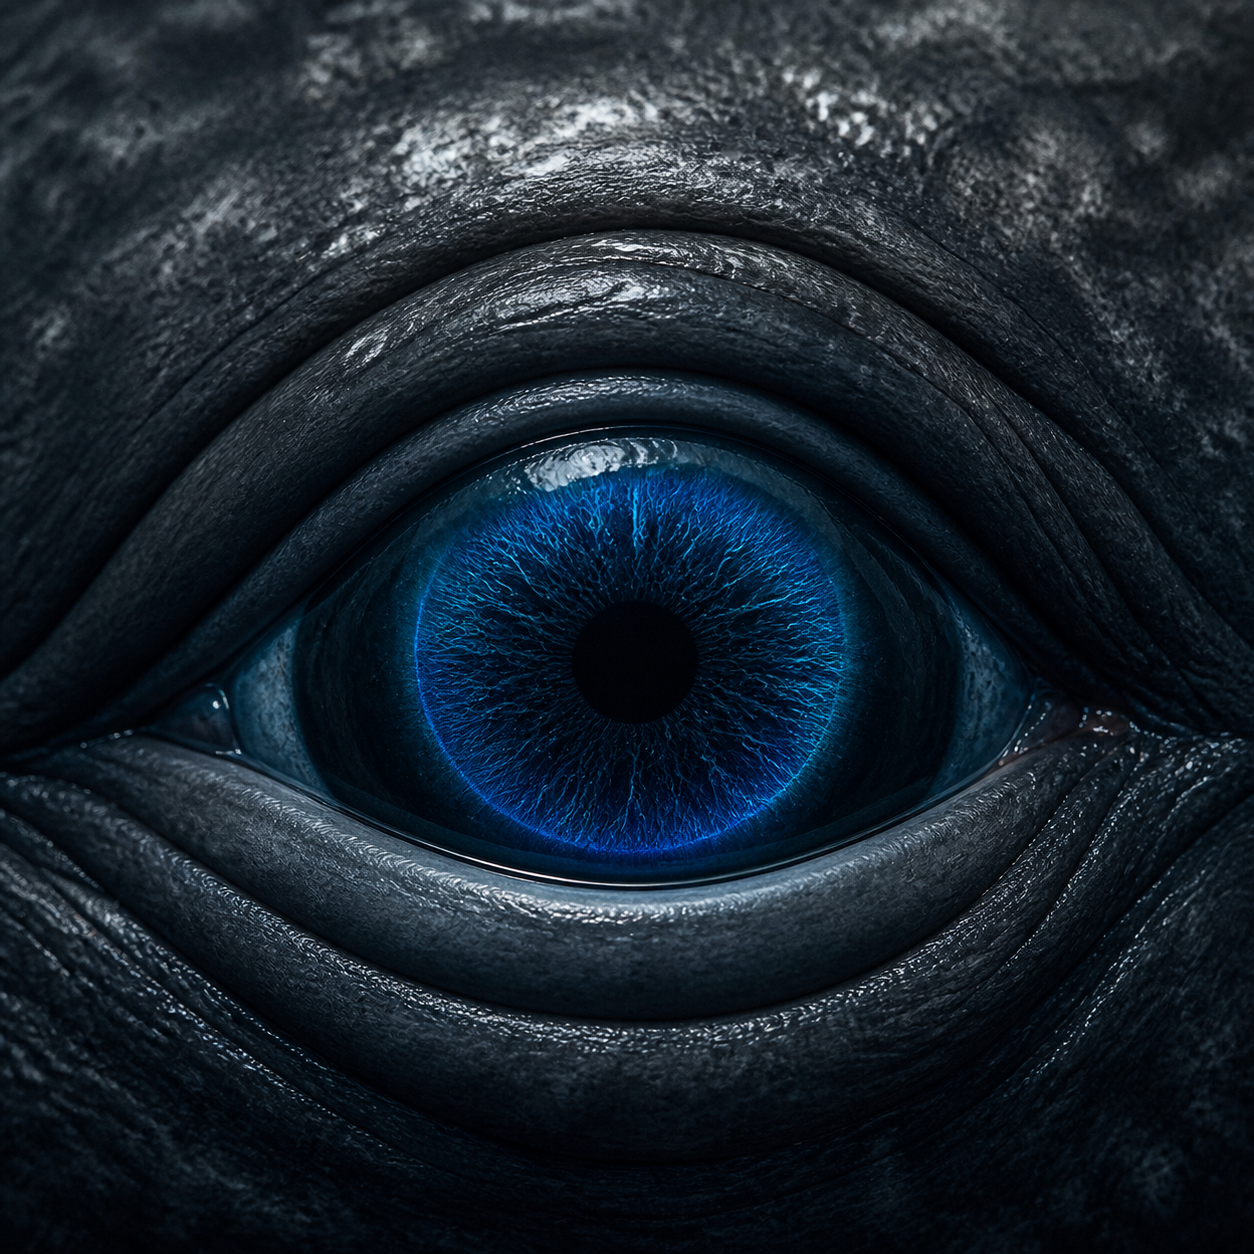
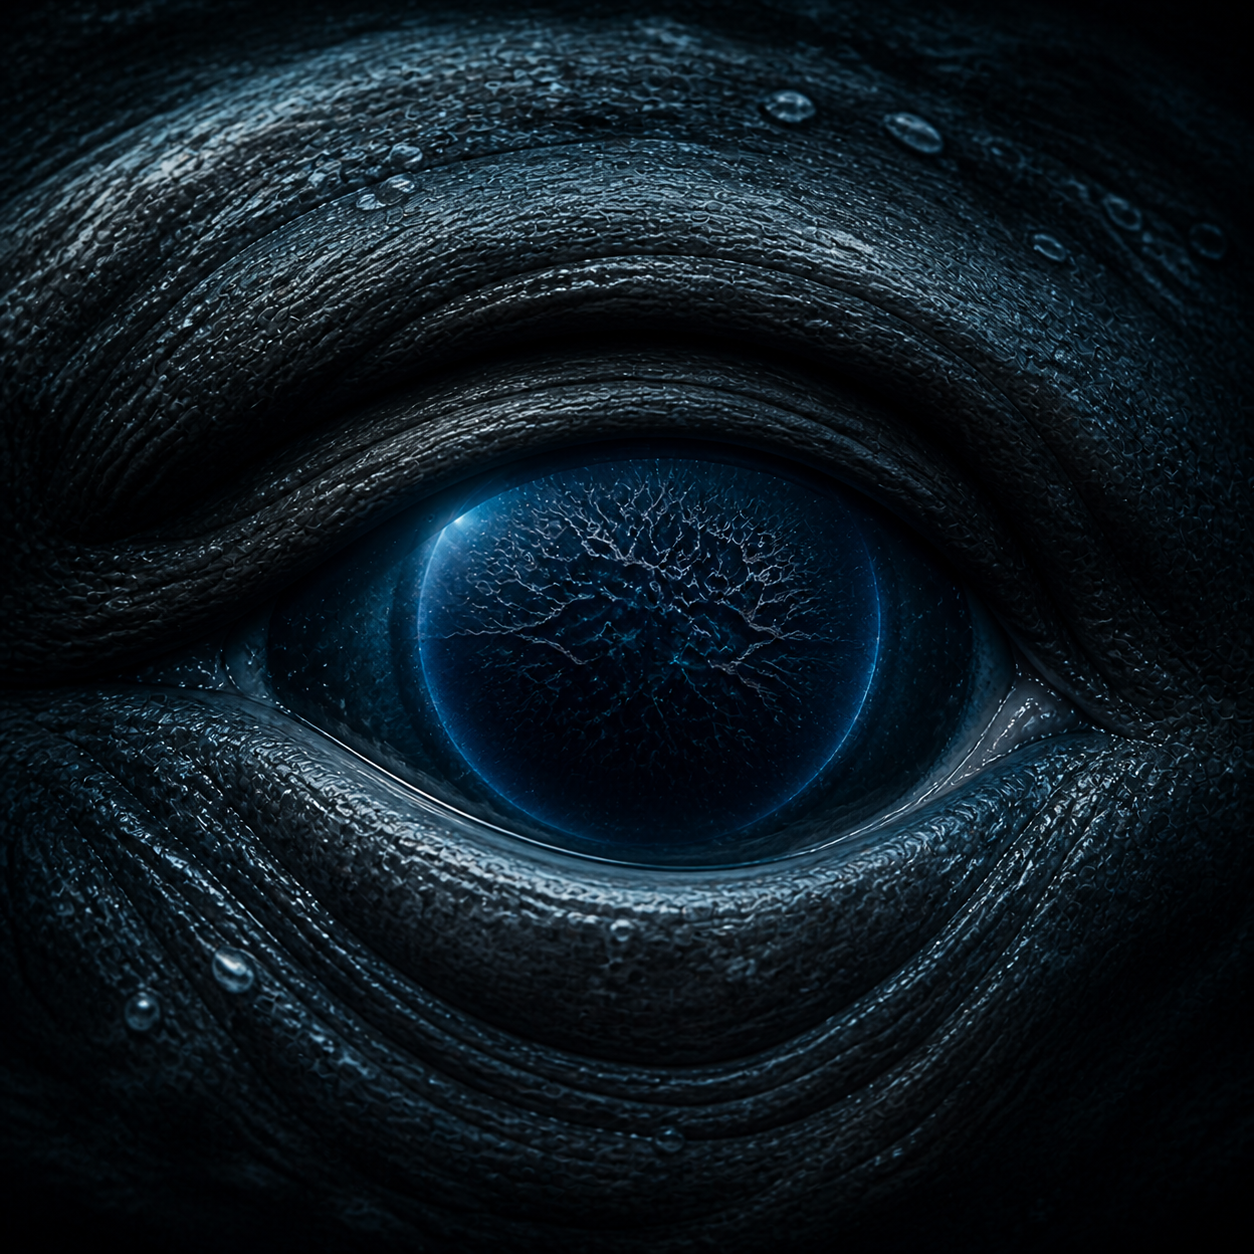
feat(voice): deepen whale living eye identity

diff --git a/app/globals.css b/app/globals.css
@@ -312,11 +312,21 @@
   aspect-ratio: 1;
   isolation: isolate;
   overflow: hidden;
-  border-radius: 16% 17% 21% 20% / 18% 18% 23% 22%;
-  background: #02070c;
-  box-shadow:
-    0 42px 120px rgb(0 55 92 / 24%),
-    inset 0 0 0 1px rgb(162 230 255 / 8%);
+  border-radius: 0;
+  background: transparent;
+  box-shadow: 0 42px 120px rgb(0 55 92 / 18%);
+  -webkit-mask-image: radial-gradient(
+    ellipse 64% 66% at 50% 52%,
+    #000 0 52%,
+    rgb(0 0 0 / 90%) 63%,
+    transparent 86%
+  );
+  mask-image: radial-gradient(
+    ellipse 64% 66% at 50% 52%,
+    #000 0 52%,
+    rgb(0 0 0 / 90%) 63%,
+    transparent 86%
+  );
   animation: living-eye-breathe 8.6s cubic-bezier(0.42, 0, 0.35, 1) infinite
     alternate;
   contain: layout paint style;
@@ -328,14 +338,13 @@
   z-index: 8;
   pointer-events: none;
   background:
-    radial-gradient(circle at 36% 30%, rgb(226 250 255 / 13%), transparent 13%),
+    radial-gradient(circle at 36% 32%, rgb(226 250 255 / 9%), transparent 12%),
     radial-gradient(
-      ellipse at 50% 53%,
-      transparent 43%,
-      rgb(0 4 8 / 18%) 58%,
-      rgb(0 3 7 / 62%) 100%
+      ellipse at 50% 52%,
+      transparent 46%,
+      rgb(0 4 8 / 12%) 65%,
+      rgb(0 3 7 / 48%) 100%
     );
-  mix-blend-mode: screen;
 }
 .nexo-living-eye-base {
   position: absolute;
@@ -344,7 +353,7 @@
   height: 102%;
   user-select: none;
   object-fit: cover;
-  filter: saturate(0.88) contrast(1.06) brightness(0.78);
+  filter: saturate(0.96) contrast(1.04) brightness(0.88);
   transition: filter 420ms ease;
 }
 .nexo-living-eye-closed {
@@ -356,7 +365,7 @@
   user-select: none;
   object-fit: cover;
   opacity: 0;
-  filter: saturate(0.72) contrast(1.04) brightness(0.7);
+  filter: saturate(0.9) contrast(1.03) brightness(0.84);
   pointer-events: none;
   will-change: opacity;
 }
@@ -391,20 +400,37 @@
   z-index: 3;
   width: 100%;
   height: 100%;
+  opacity: 0.06;
+  mix-blend-mode: screen;
+  -webkit-mask-image: radial-gradient(
+    ellipse 28% 29% at 50.5% 51.8%,
+    #000 0 66%,
+    transparent 100%
+  );
+  mask-image: radial-gradient(
+    ellipse 28% 29% at 50.5% 51.8%,
+    #000 0 66%,
+    transparent 100%
+  );
   pointer-events: none;
 }
 .nexo-living-eye-pupil {
   position: absolute;
   z-index: 4;
-  left: 44.4%;
-  top: 45.2%;
-  width: 12.4%;
+  left: 42.8%;
+  top: 44.2%;
+  width: 15.5%;
   aspect-ratio: 1;
-  border-radius: 50%;
-  background: radial-gradient(circle at 43% 38%, #06101a 0 38%, #000 72%);
-  box-shadow:
-    inset 0 0 1.2rem #000,
-    0 0 1.4rem rgb(0 0 0 / 60%);
+  border-radius: 46% 54% 51% 49% / 53% 47% 56% 44%;
+  background: radial-gradient(
+    ellipse at 48% 52%,
+    rgb(0 2 6 / 62%) 0 32%,
+    rgb(0 4 10 / 30%) 58%,
+    transparent 78%
+  );
+  filter: blur(2.4px);
+  opacity: 0.05;
+  mix-blend-mode: multiply;
   transform: translate(var(--eye-gaze-x), var(--eye-gaze-y))
     scale(calc(1 - var(--eye-energy) * 0.12));
   transition: transform 360ms cubic-bezier(0.2, 0.8, 0.2, 1);
@@ -412,13 +438,13 @@
 .nexo-living-eye-glint {
   position: absolute;
   z-index: 5;
-  left: 36%;
-  top: 37%;
-  width: 9%;
-  height: 4%;
+  left: 35.5%;
+  top: 36.5%;
+  width: 8%;
+  height: 3.5%;
   border-radius: 50%;
-  background: radial-gradient(ellipse, rgb(229 252 255 / 34%), transparent 72%);
-  filter: blur(0.8px);
+  background: radial-gradient(ellipse, rgb(229 252 255 / 26%), transparent 72%);
+  filter: blur(1.2px);
   transform: translate(
       calc(var(--eye-gaze-x) * 1.35),
       calc(var(--eye-gaze-y) * 1.35)
@@ -485,11 +511,11 @@
 }
 .nexo-living-eye-listening .nexo-living-eye-base,
 .nexo-living-eye-speaking .nexo-living-eye-base {
-  filter: saturate(1.12) contrast(1.08) brightness(0.91);
+  filter: saturate(1.1) contrast(1.08) brightness(1.06);
 }
 .nexo-living-eye-thinking .nexo-living-eye-base,
 .nexo-living-eye-working .nexo-living-eye-base {
-  filter: saturate(1.04) contrast(1.12) brightness(0.84) hue-rotate(-4deg);
+  filter: saturate(1.02) contrast(1.08) brightness(0.92) hue-rotate(-3deg);
 }
 .nexo-living-eye-success .nexo-living-eye-depth {
   animation: living-eye-success 1.1s ease-out;
@@ -513,7 +539,7 @@
 }
 .nexo-living-eye-mini {
   width: 1.85rem;
-  border-radius: 48%;
+  border-radius: 45% 55% 48% 52% / 52% 46% 54% 48%;
   animation-duration: 10.5s;
   box-shadow: 0 0 1rem rgb(0 153 210 / 22%);
 }

diff --git a/docs/voice-presence/WHALE-EYE-V2-PROMPTS.md b/docs/voice-presence/WHALE-EYE-V2-PROMPTS.md
@@ -1,0 +1,34 @@
+# Whale Eye V2 — geração dos assets
+
+Modo de geração: ImageGen integrado, edição por referências raster. Os originais gerados foram mantidos no diretório de imagens do Codex e copiados para `public/nexo/`.
+
+## Asset aberto
+
+Referências: as três imagens fornecidas pelo usuário e a primeira iteração do olho orgânico para alinhamento do componente.
+
+```text
+Use case: style-transfer and precise asset redesign.
+Asset type: final open-state, full-bleed square raster layer for the Nexo Living Eye voice interface.
+Reference priority: Images 1, 2 and 3 define the exact living visual language to preserve: a massive whale-like eye, heavy asymmetric cetacean eyelids, wet dark skin, a deep almost-black blue globe, a restrained luminous cyan inner rim, and especially the delicate organic branching structures floating visibly inside the eye. Image 4 provides prior UI alignment and surrounding skin scale only.
+Primary request: create a more alive version that unmistakably follows the references. The eye must feel conscious and internally active: glassy depth, subtle underwater caustic reflections, tiny wet specular highlights, faint suspended particles, minute irregular color variation and a clear organic branching network inside the dark central globe. The branches resemble submerged nerves or bioluminescent roots—fine, asymmetric, naturally fading, concentrated in the upper-middle interior, never a decorative radial iris.
+Subject: one animal eye recessed into a huge dark whale-like face. Heavy unequal upper and lower folds compress the globe. The visible globe remains dark navy/near-black, with blue light coming from depth rather than a painted bright iris. The center is bottomless, subtly irregular and animal; no clean human pupil.
+Composition: 1:1 square, full bleed, no card. Eye centered near 50% horizontal and 51% vertical for UI overlays. Eye opening roughly 40–48% of frame width, large enough to reveal the internal living structures while the organic whale skin still dominates. Preserve the reference's cinematic close-up presence.
+Materials: scarred cetacean skin, dense pores and grooves, wet membranes, slight mucus-like gloss at the lid edge, glassy ocular surface.
+Lighting: dark abyssal environment, directional blue-black grazing light on the skin, cyan restricted to inner ocular depth and wet reflections.
+Constraints: photoreal; asymmetric; alive; exact square framing; no text; no logo; no UI controls; no background frame; no rounded corners.
+Avoid: human radial iris spokes, bright flat electric-blue iris, perfectly circular neon ring, clean circular pupil, white human sclera, eyelashes, eyebrows, makeup, camera lens, robot eye, generic AI orb, symmetry, plastic skin, over-sharpened CGI.
+```
+
+## Asset fechado
+
+Referências: asset aberto final e estado fechado anterior apenas como indicação estrutural.
+
+```text
+Use case: precise-object-edit.
+Asset type: matching fully closed-state raster layer for the Nexo Living Eye animation.
+Input images: Image 1 is authoritative. Preserve its exact creature identity, full-bleed square framing, whale skin, pores, grooves, droplets, scars, lighting, color, scale, asymmetry and eye position. Image 2 is only a structural example that the eye must be fully closed.
+Primary request: make Image 1 blink fully closed. Replace only the visible globe and open ocular gap with two heavy overlapping asymmetric cetacean eyelids meeting in one moist, irregular, slightly curved horizontal seam at the same location. Surrounding folds should compress naturally as a next animation frame of the exact same living animal.
+Appearance: photoreal dark whale skin, wet lid margins, subtle specular moisture along the seam, dense organic texture and quiet underwater darkness. Preserve the dominant upper fold and the lower skin mass from Image 1.
+Constraints: 1:1 square, full bleed, same crop and lighting as Image 1; no visible iris, globe, blue glow, pupil or sclera; no text, logo, UI, frame, border or rounded card.
+Avoid: human eyelids, eyelashes, eyebrow, makeup, symmetrical folds, smooth plastic skin, stitched wound, camera lens, robot eye, AI orb.
+```

diff --git a/docs/NEXO-VOICE-PRESENCE-REPORT.md b/docs/NEXO-VOICE-PRESENCE-REPORT.md
@@ -2,8 +2,8 @@
 
 ## IMPLEMENTATION
 
-- `public/nexo/living-eye-base.png`: base visual original gerada a partir das duas referências, sem copiar nenhuma delas.
-- `public/nexo/living-eye-closed.png`: estado orgânico fechado, usado apenas durante os milissegundos de blink e no repouso.
+- `public/nexo/living-eye-base.png`: baleia abissal viva em macro, com globo quase preto, luz azul em profundidade e ramificações internas assimétricas.
+- `public/nexo/living-eye-closed.png`: o mesmo animal com pálpebras pesadas totalmente fechadas, usado durante o blink e no repouso.
 - `components/nexo/nexo-living-eye.tsx`: `NexoLivingEye`, `NexoLivingEyeMini`, modo de voz imersivo, state machine, Canvas 2D e analisador de áudio.
 - `app/globals.css`: pálpebras, profundidade, umidade, respiração, estados, responsividade e reduced motion.
 - `app/page.tsx`: ligação com reconhecimento de voz, TTS, barge-in, loading do chat, Agent e runtime local.
@@ -22,11 +22,11 @@ Os intervalos usam PRNG com seed e distribuição entre aproximadamente 3,8 e 11
 
 ## MOTION SYSTEM
 
-Micro-saccades usam random walk controlado; pointer parallax é limitado; a respiração combina períodos não coincidentes; reflexo úmido desloca lentamente; Canvas desenha rede radial orgânica, glow subsuperficial e impulsos irregulares. O estado não reinicia o loop do Canvas, então brilho e energia interpolam suavemente.
+Micro-saccades usam random walk controlado; pointer parallax é limitado; a respiração combina períodos não coincidentes; reflexo úmido desloca lentamente. A rede orgânica principal agora faz parte da anatomia do asset, enquanto o Canvas foi reduzido a micro-impulsos e glow subsuperficial discretos para não recriar uma íris humana radial. O estado não reinicia o loop do Canvas, então brilho e energia interpolam suavemente.
 
 ## PERFORMANCE
 
-Não foi adicionada biblioteca 3D. O motor usa Canvas 2D, DPR limitado e três níveis de qualidade: high (82 ramos), medium (52) e low (28). O modo `auto` considera `hardwareConcurrency` e reduced motion. A aba oculta deixa de desenhar e o miniolho força low. A imagem-base é carregada uma vez e reutilizada pelo cache.
+Não foi adicionada biblioteca 3D. O motor usa Canvas 2D em baixa opacidade, DPR limitado e três níveis de qualidade. O modo `auto` considera `hardwareConcurrency` e reduced motion. A aba oculta deixa de desenhar e o miniolho força low. A imagem-base é carregada uma vez e reutilizada pelo cache.
 
 ## RESPONSIVE
 
@@ -45,7 +45,11 @@ O olho anuncia seu estado por nome acessível; controles têm labels; o texto do
 
 ## SCREENSHOTS
 
-Os estados estão em `docs/voice-presence/screenshots/`: `idle`, `listening`, `understanding`, `thinking`, `speaking`, `working`, `success`, `error`, `offline`, `resting` e `listening-mobile`.
+Os estados estão em `docs/voice-presence/screenshots/`: `idle`, `listening`, `understanding`, `thinking`, `speaking`, `working`, `success`, `error`, `offline`, `resting` e `listening-mobile`. A revisão visual de baleia V2 acrescenta `whale-eye-v2-listening-desktop.png` e `whale-eye-v2-listening-mobile.png`.
+
+## WHALE EYE V2
+
+A segunda direção visual preserva toda a arquitetura comportamental e substitui apenas a presença orgânica. O globo ficou maior e vítreo para expor a rede interna da referência; o centro continua quase preto, sem pupila humana limpa. As bordas do asset agora desaparecem gradualmente no ambiente, em vez de formar um quadrado arredondado. A camada circular de pupila e o Canvas radial foram reduzidos para que as ramificações anatômicas do olho sejam a leitura dominante. Os prompts e as referências usados nesta revisão estão documentados em `docs/voice-presence/WHALE-EYE-V2-PROMPTS.md`.
 
 ## VIDEO/GIF DE TESTE
 
